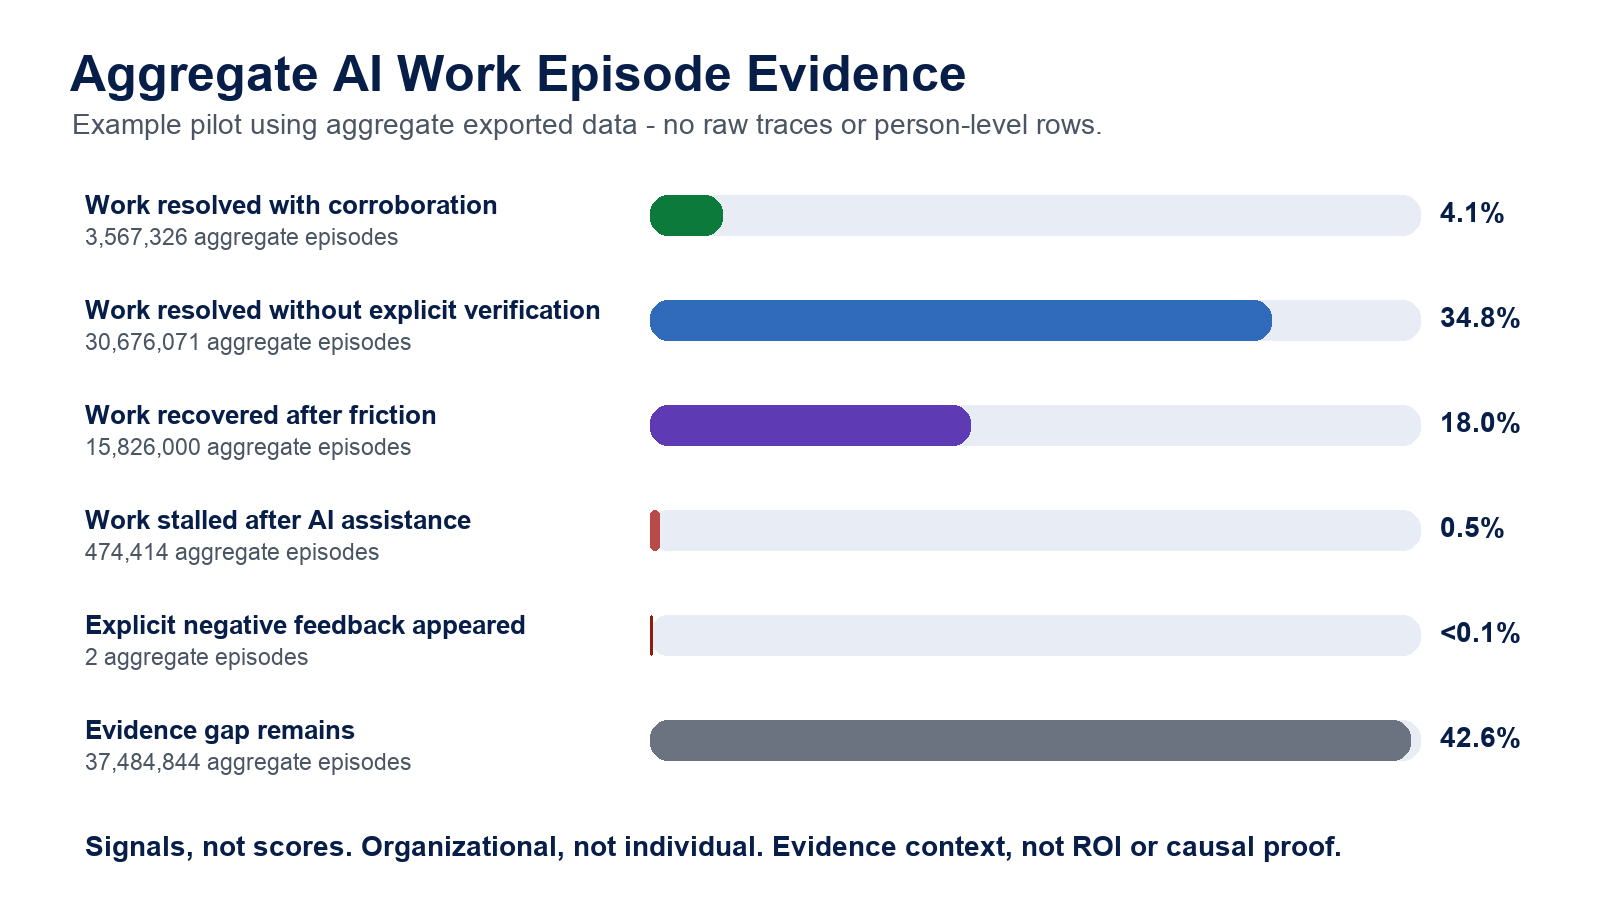
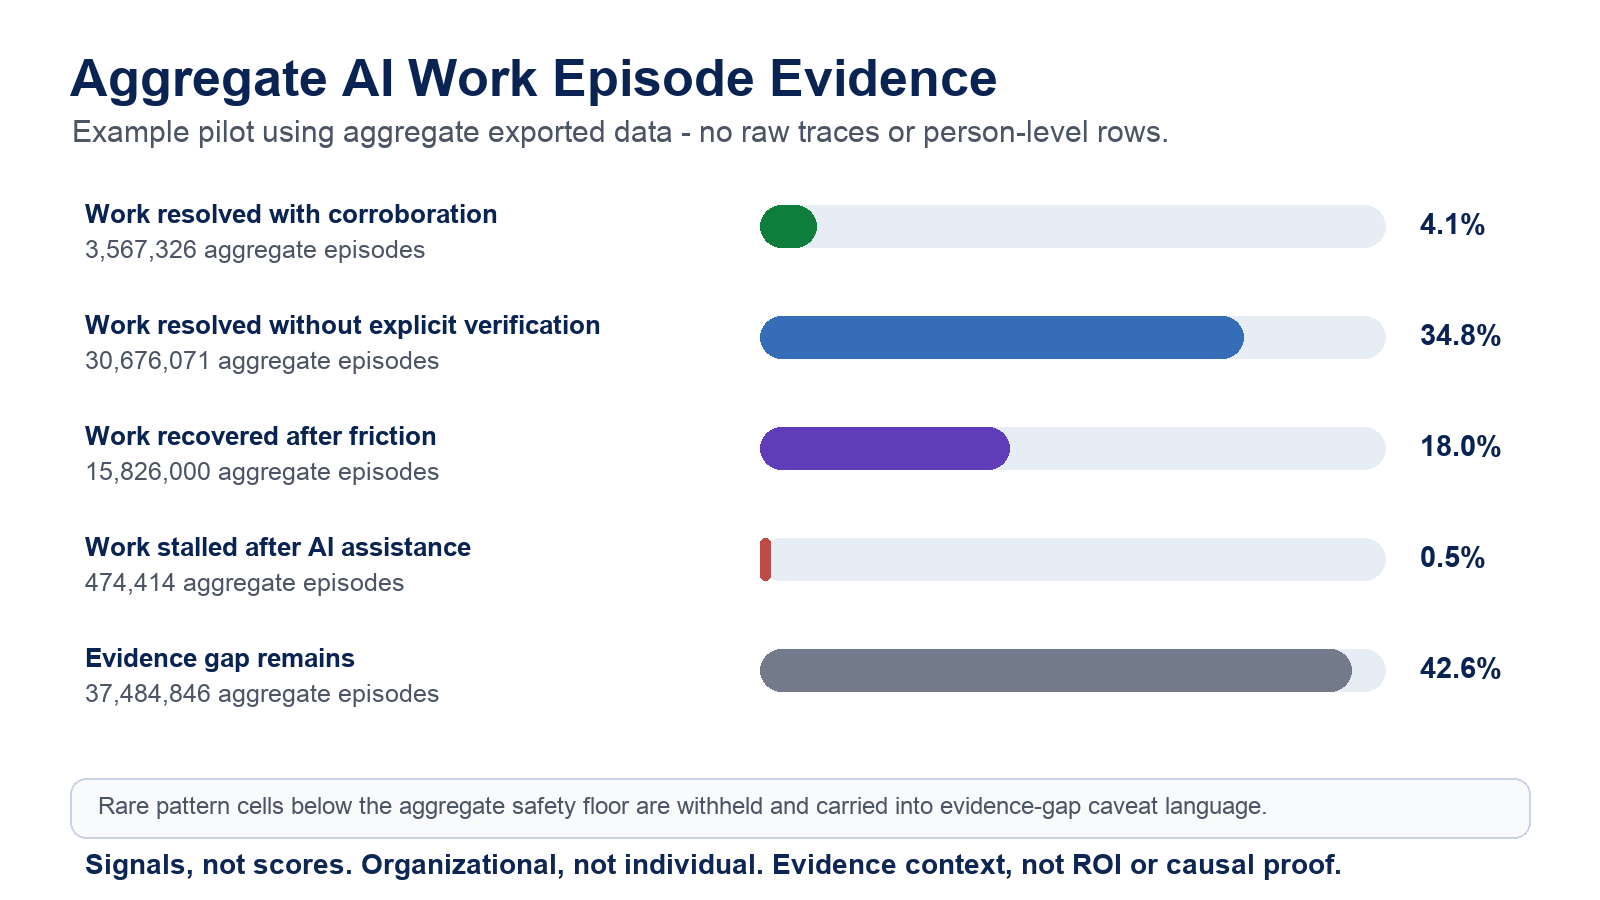
fix: withhold trust episode small cells

diff --git a/scripts/dogfood/run_trust_episode_pilot_readout.py b/scripts/dogfood/run_trust_episode_pilot_readout.py
@@ -16,6 +16,11 @@ from typing import Any
 SUMMARY_OUTPUT = "trust_episode_pilot_summary.json"
 READOUT_OUTPUT = "TRUST_EPISODE_PILOT_EXECUTIVE_READOUT.md"
 PATTERN_OUTPUT = "trust_episode_pilot_pattern_summary.csv"
+MIN_AGGREGATE_PATTERN_COUNT = 5
+SMALL_CELL_CAVEAT = (
+    "Rare pattern cells below the aggregate safety floor are withheld from "
+    "pattern rows and carried into evidence-gap caveat language."
+)
 
 REQUIRED_COLUMNS = {
     "episode_pattern",
@@ -213,12 +218,26 @@ def aggregate_patterns(csv_input: CsvInput) -> dict[str, int]:
     return counts
 
 
+def apply_small_cell_safety_floor(counts: dict[str, int]) -> dict[str, int]:
+    safe_counts = dict(counts)
+    folded_count = 0
+    for pattern, count in counts.items():
+        if pattern == "evidence_gap" or count == 0 or count >= MIN_AGGREGATE_PATTERN_COUNT:
+            continue
+        safe_counts[pattern] = 0
+        folded_count += count
+    if folded_count:
+        safe_counts["evidence_gap"] += folded_count
+    return safe_counts
+
+
 def build_summary(
     *,
     customer_label: str,
     window_label: str,
     counts: dict[str, int],
 ) -> dict[str, Any]:
+    counts = apply_small_cell_safety_floor(counts)
     total = sum(counts.values())
     patterns = {
         pattern: {
@@ -234,6 +253,12 @@ def build_summary(
         "window_label": window_label,
         "total_episode_count": total,
         "patterns": patterns,
+        "small_cell_policy": {
+            "minimum_aggregate_pattern_count": MIN_AGGREGATE_PATTERN_COUNT,
+            "emits_sub_floor_pattern_values": False,
+            "folds_sub_floor_pattern_values_into_evidence_gap": True,
+            "caveat": SMALL_CELL_CAVEAT,
+        },
         "governance": {
             "output_is_aggregate_only": True,
             "requires_customer_approved_aggregate_scope": True,
@@ -259,6 +284,14 @@ def pattern_line(pattern: str, count: int, total: int) -> str:
     label = PATTERN_LABELS[pattern]
     share = count / total
     return f"- {label}: {format_count(count)} aggregate episodes ({format_share(share)})."
+
+
+def visible_patterns(summary: dict[str, Any]) -> list[str]:
+    return [
+        pattern
+        for pattern in PATTERN_ORDER
+        if int(summary["patterns"][pattern]["episode_count"]) > 0
+    ]
 
 
 def build_readout(summary: dict[str, Any]) -> str:
@@ -295,9 +328,11 @@ def build_readout(summary: dict[str, Any]) -> str:
         f"The export contains {format_count(total)} aggregate AI work episodes.",
         "",
     ]
-    lines.extend(pattern_line(pattern, counts[pattern], total) for pattern in PATTERN_ORDER)
+    lines.extend(pattern_line(pattern, counts[pattern], total) for pattern in visible_patterns(summary))
     lines.extend(
         [
+            "",
+            SMALL_CELL_CAVEAT,
             "",
             "## Trust Calibration Context",
             "",
@@ -347,9 +382,10 @@ def write_pattern_csv(path: Path, summary: dict[str, Any]) -> None:
                 "episode_count",
                 "episode_share",
             ],
+            lineterminator="\n",
         )
         writer.writeheader()
-        for pattern in PATTERN_ORDER:
+        for pattern in visible_patterns(summary):
             value = summary["patterns"][pattern]
             writer.writerow(
                 {

diff --git a/tests/dogfood/test_trust_episode_pilot_readout.py b/tests/dogfood/test_trust_episode_pilot_readout.py
@@ -119,11 +119,29 @@ def aggregate_rows() -> list[dict[str, object]]:
             "coverage_caveat": "candidate episode-key count; trace, run, and session keys may overlap",
         },
         {
+            "episode_pattern": "explicit_negative_feedback",
+            "boundary_layer": "same_session_continuation",
+            "primary_evidence_family": "feedback_signal",
+            "episode_count": 2,
+            "episode_share": 0.0002,
+            "explicit_feedback_episode_count": 2,
+            "negative_feedback_episode_count": 2,
+            "positive_feedback_episode_count": 0,
+            "agent_completion_episode_count": 0,
+            "failure_or_friction_episode_count": 2,
+            "post_failure_continuation_episode_count": 0,
+            "skill_episode_count": 0,
+            "post_skill_continuation_episode_count": 0,
+            "citation_click_episode_count": 0,
+            "citation_available_episode_count": 0,
+            "coverage_caveat": "rare aggregate cell below output floor",
+        },
+        {
             "episode_pattern": "evidence_gap",
             "boundary_layer": "unknown_boundary",
             "primary_evidence_family": "evidence_gap",
-            "episode_count": 4340,
-            "episode_share": 0.434,
+            "episode_count": 4338,
+            "episode_share": 0.4338,
             "explicit_feedback_episode_count": 0,
             "negative_feedback_episode_count": 0,
             "positive_feedback_episode_count": 0,
@@ -153,6 +171,10 @@ def test_aggregate_csv_generates_executive_safe_readout(tmp_path: Path) -> None:
     assert summary["window_label"] == "Seven approved business days"
     assert summary["total_episode_count"] == 10000
     assert summary["patterns"]["recovered_after_failure"]["share"] == 0.18
+    assert summary["patterns"]["explicit_negative_feedback"]["episode_count"] == 0
+    assert summary["patterns"]["evidence_gap"]["episode_count"] == 4340
+    assert summary["small_cell_policy"]["emits_sub_floor_pattern_values"] is False
+    assert summary["small_cell_policy"]["folds_sub_floor_pattern_values_into_evidence_gap"] is True
     assert summary["governance"]["output_is_aggregate_only"] is True
     assert summary["governance"]["requires_customer_approved_aggregate_scope"] is True
     assert summary["governance"]["adds_runtime_api"] is False
@@ -180,8 +202,11 @@ def test_aggregate_csv_generates_executive_safe_readout(tmp_path: Path) -> None:
         "V4_TRUST_EPISODE_BOUNDARY_VALIDATION_READOUT.md",
         "TRUST_PRODUCT_EPISODE_DEDUP_BIGQUERY_READOUT.md",
         "TRUST_KEY_CONFIDENCE_BIGQUERY_READOUT.md",
+        "Rare pattern cells below the aggregate safety floor",
     ]:
         assert phrase in readout
+    assert "Explicit negative feedback appeared" not in readout
+    assert "2 aggregate episodes" not in readout
     for raw_code in [
         "resolved_with_confidence",
         "resolved_without_verification_signal",
@@ -205,6 +230,9 @@ def test_aggregate_csv_generates_executive_safe_readout(tmp_path: Path) -> None:
         rows = list(csv.DictReader(handle))
     assert rows[0]["pattern_label"] == "Work resolved with corroboration"
     assert rows[2]["pattern_label"] == "Work recovered after friction"
+    assert "Explicit negative feedback appeared" not in {
+        row["pattern_label"] for row in rows
+    }
 
 
 def test_forbidden_person_level_columns_fail_closed(tmp_path: Path) -> None:
@@ -265,12 +293,15 @@ def test_retained_dogfood_pilot_output_uses_real_aggregate_counts() -> None:
     assert summary["customer_label"] == "Glean dogfood aggregate run-first sample"
     assert summary["total_episode_count"] == 88028657
     assert summary["patterns"]["recovered_after_failure"]["episode_count"] == 15826000
-    assert summary["patterns"]["evidence_gap"]["episode_count"] == 37484844
+    assert summary["patterns"]["explicit_negative_feedback"]["episode_count"] == 0
+    assert summary["patterns"]["evidence_gap"]["episode_count"] == 37484846
     assert summary["governance"]["adds_runtime_api"] is False
 
     assert "88,028,657 aggregate AI work episodes" in readout
     assert "15,826,000 aggregate episodes" in readout
-    assert "37,484,844 aggregate episodes" in readout
+    assert "37,484,846 aggregate episodes" in readout
+    assert "Explicit negative feedback appeared" not in readout
+    assert "2 aggregate episodes" not in readout
     assert "not a trust score" in readout
     assert "does not calculate ROI" in readout
     assert "does not establish causality" in readout

diff --git a/tests/dogfood/test_trust_episode_external_brief.py b/tests/dogfood/test_trust_episode_external_brief.py
@@ -25,9 +25,10 @@ def assert_external_brief_contract(text: str) -> None:
         "Trust Calibration Context",
         "88,028,657 aggregate AI work episodes",
         "15,826,000 aggregate episodes",
-        "37,484,844 aggregate episodes",
+        "37,484,846 aggregate episodes",
         "18.0%",
         "42.6%",
+        "Rare pattern cells below the aggregate safety floor",
         "does not identify, score, rank, or evaluate employees",
         "not a trust score",
         "not a citation-click metric",
@@ -37,6 +38,13 @@ def assert_external_brief_contract(text: str) -> None:
         "No API is required for this pilot phase",
     ]:
         assert phrase in text
+
+    for withheld_phrase in [
+        "Explicit negative feedback appeared",
+        "2 aggregate episodes",
+        "37,484,844 aggregate episodes",
+    ]:
+        assert withheld_phrase not in text
 
     for raw_code in [
         "resolved_with_confidence",

diff --git a/output/doc/FluencyTracr_Trust_Calibration_Pilot_Brief.md b/output/doc/FluencyTracr_Trust_Calibration_Pilot_Brief.md
@@ -18,14 +18,15 @@ This is Trust Calibration Context. It is not a trust score, not a citation-click
 - Work resolved without explicit verification: 30,676,071 aggregate episodes (34.8%).
 - Work recovered after friction: 15,826,000 aggregate episodes (18.0%).
 - Work stalled after AI assistance: 474,414 aggregate episodes (0.5%).
-- Explicit negative feedback appeared: 2 aggregate episodes (<0.1%).
-- Evidence gap remains: 37,484,844 aggregate episodes (42.6%).
+- Evidence gap remains: 37,484,846 aggregate episodes (42.6%).
+
+Rare pattern cells below the aggregate safety floor are withheld from pattern rows and carried into evidence-gap caveat language.
 
 Three signals matter most for leaders:
 
 - Recovery after friction appears in 18.0% of aggregate episodes. This suggests AI-assisted work often continues after failure, pause, skip, cancellation, or other friction.
 - Work resolved without explicit verification appears in 34.8% of aggregate episodes. This can be healthy in low-risk workflows, but it needs workflow-risk and source-coverage context.
-- The evidence gap remains 42.6%. Missing evidence must stay visible and must not be upgraded into healthy trust, poor trust, value, or causality.
+- The evidence gap remains 42.6%. Missing evidence and rare withheld pattern cells must stay visible as caveated evidence context and must not be upgraded into healthy trust, poor trust, value, or causality.
 
 ![How the Pilot Works](trust_episode_evidence_flow.png)
 

diff --git a/dogfood-output/trust-episode-boundary-pilot/TRUST_EPISODE_PILOT_EXECUTIVE_READOUT.md b/dogfood-output/trust-episode-boundary-pilot/TRUST_EPISODE_PILOT_EXECUTIVE_READOUT.md
@@ -24,8 +24,9 @@ The export contains 88,028,657 aggregate AI work episodes.
 - Work resolved without explicit verification: 30,676,071 aggregate episodes (34.8%).
 - Work recovered after friction: 15,826,000 aggregate episodes (18.0%).
 - Work stalled after AI assistance: 474,414 aggregate episodes (0.5%).
-- Explicit negative feedback appeared: 2 aggregate episodes (<0.1%).
-- Evidence gap remains: 37,484,844 aggregate episodes (42.6%).
+- Evidence gap remains: 37,484,846 aggregate episodes (42.6%).
+
+Rare pattern cells below the aggregate safety floor are withheld from pattern rows and carried into evidence-gap caveat language.
 
 ## Trust Calibration Context
 

diff --git a/.project/PROGRESS.md b/.project/PROGRESS.md
@@ -2,6 +2,7 @@
 
 ## Last Completed
 
+- Trust Episode pilot runner review fix: added a small-cell safety floor to fold sub-5 aggregate pattern cells into evidence-gap caveat language before external readout generation, regenerated retained pilot Markdown/CSV/JSON/chart/DOCX artifacts, and expanded tests so rare pattern counts are not emitted in shareable outputs.
 - Trust Episode Boundary research slice: added aggregate-only V4 research framing for AI work episodes, a dogfood BigQuery diagnostic for trust episode pattern shape, and regression checks preserving research-only governance. The live one-day BigQuery probe validated against scrubbed Glean customer-event and agent-span tables and produced an interpretable aggregate episode matrix; counts remain candidate episode-key counts, not deduplicated product episode totals.
 - Trust Episode Boundary BigQuery readout: ran the diagnostic across three comparable business-day windows (2026-05-20, 2026-05-21, 2026-05-22) and recorded the aggregate pattern summary in `dogfood-output/trust-episode-boundary/TRUST_EPISODE_BOUNDARY_BIGQUERY_READOUT.md`; result remains `HOLD_FOR_RESEARCH` pending deduplication and formal V4 validation.
 - Org-agnostic AI Work Evidence planning slice: added the concept-stage source-neutral AI Work Evidence core, separated reusable FluencyTracr primitives from Glean dogfood/value-evidence adapters, documented surfaces/workflows/cohorts/approved aggregate segments/customer-declared interventions/trust/source coverage/outcome evidence/value hypotheses, and made explicit that no runtime behavior, schema, endpoint, SQL, UI, canonical event, suppression reason, individual scoring, ranking, survey or stated-evidence join, enablement-system assumption, HR-system assumption, or ROI calculation changed.